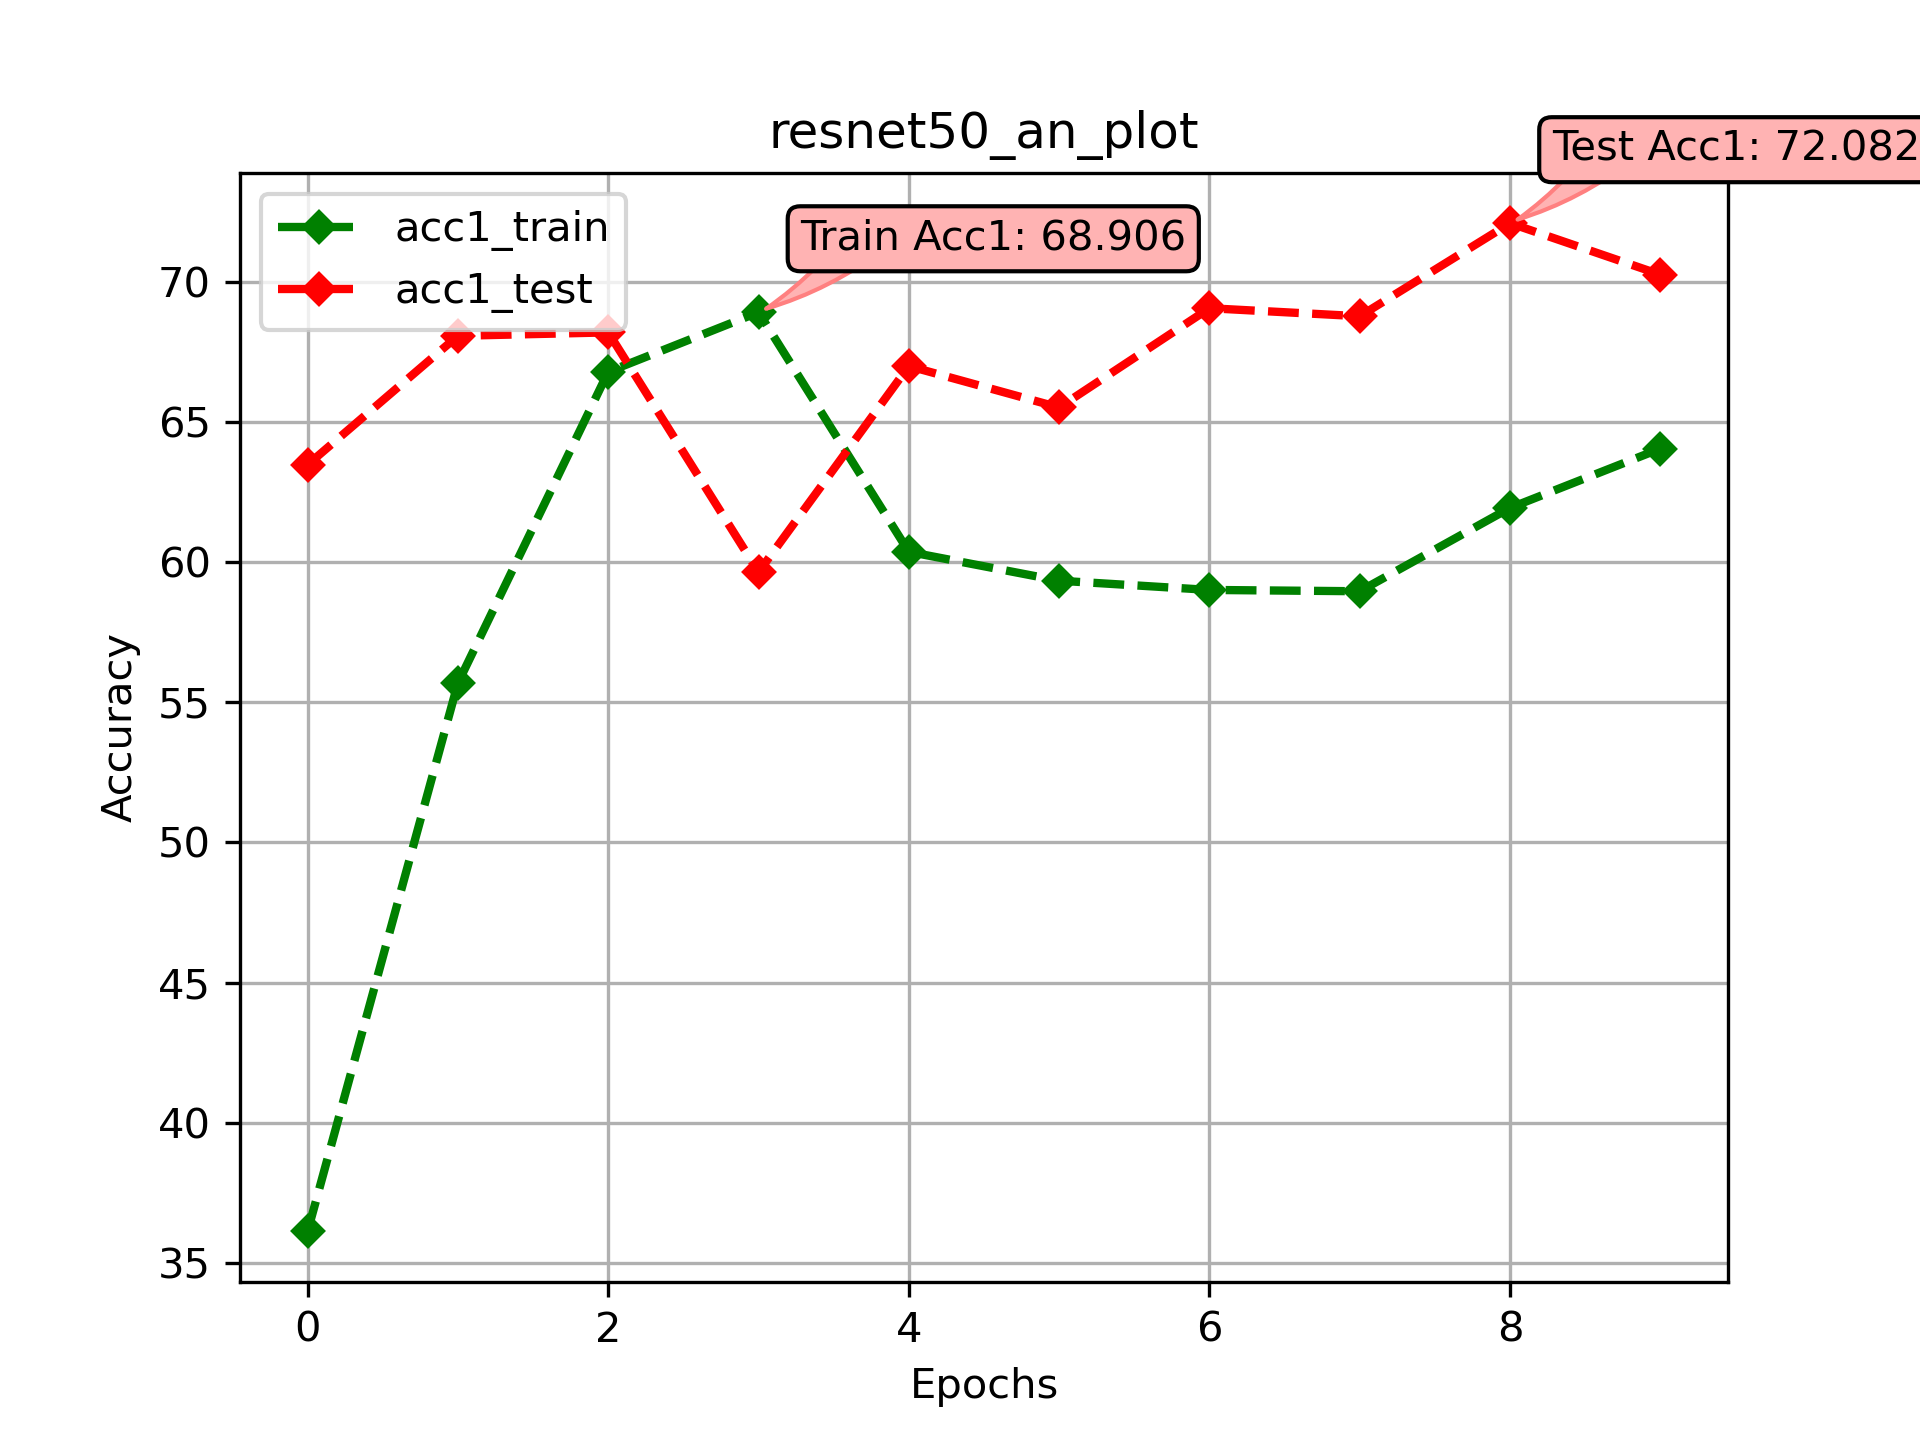
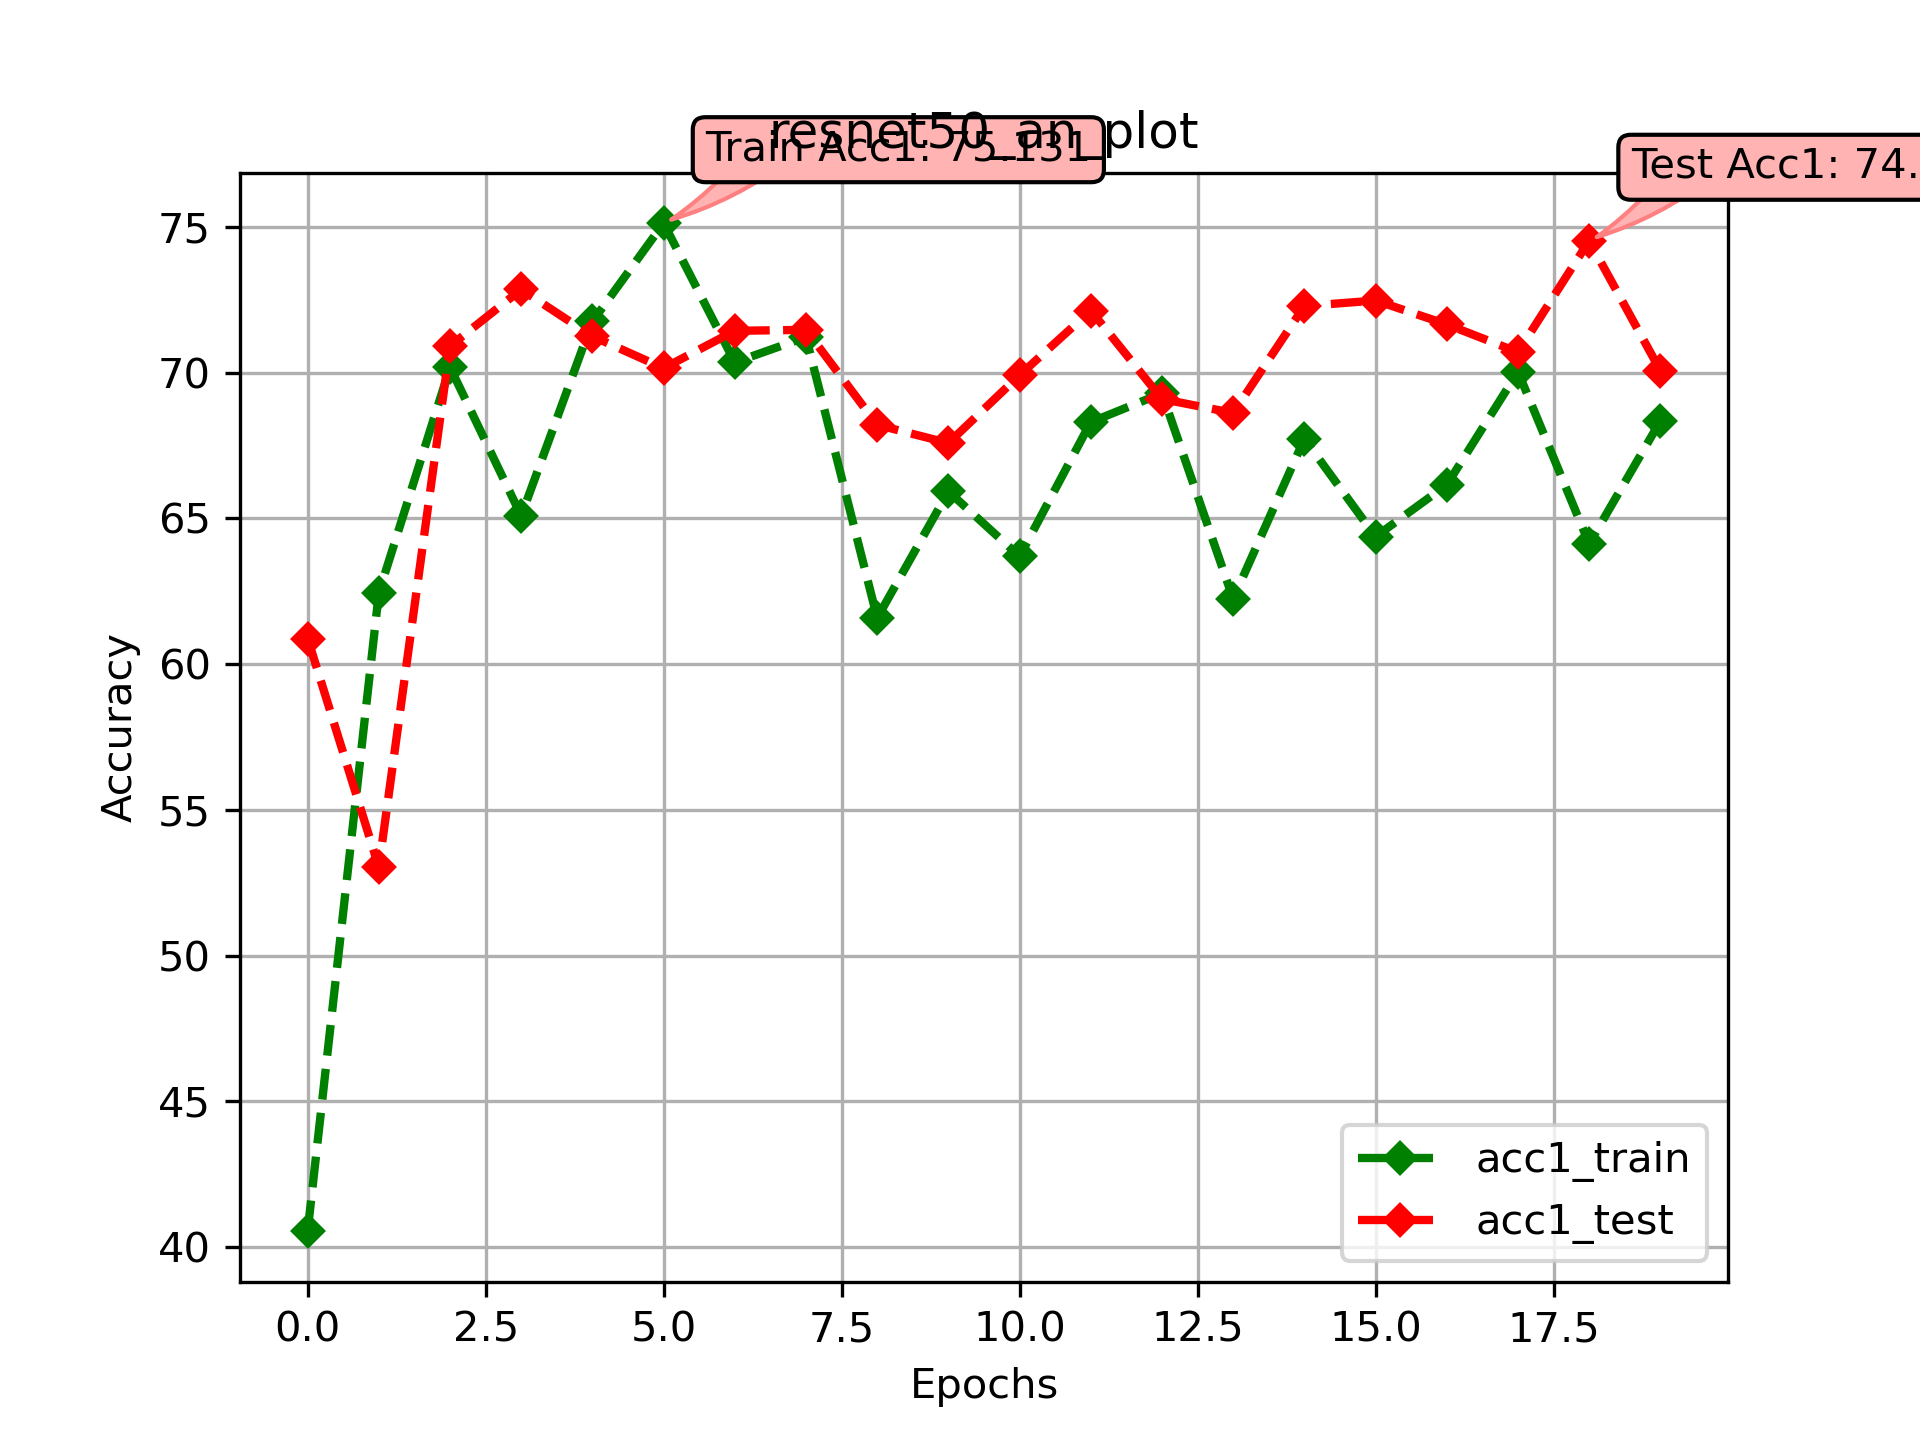
Retrained Resnet50.

diff --git a/imc_main.py b/imc_main.py
@@ -39,10 +39,10 @@ random.seed(12)
 # =============================================================
 # SELECT: Model, Name, and test_only
 # =============================================================
-model_name = "resnet18_bn"
-model = resnet18(pretrained=False)
-# model_name = "resnet50_an"
-# model = resnet50(pretrained=False)
+# model_name = "resnet18_bn"
+# model = resnet18(pretrained=False)
+model_name = "resnet50_bn"
+model = resnet50(pretrained=False)
 # model_name = "vgg16_an"
 # model = vgg16(pretrained=False)
 # model_name = "nabernet_an"
